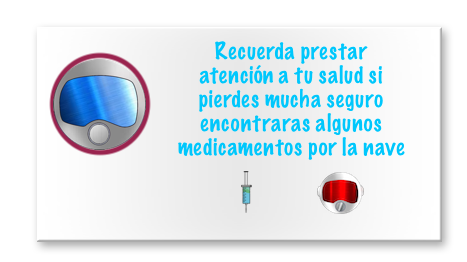
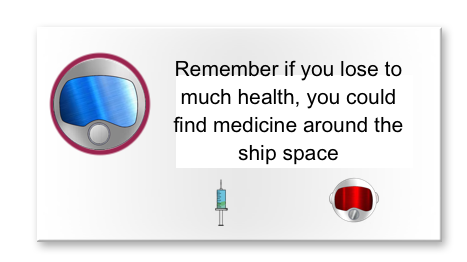
tutorial en ingles y nuevos enemigos

Changed region(s): [[0.3597, 0.1527, 0.8694, 0.6412], [0.6595, 0.6412, 0.8094, 0.855], [0.4497, 0.6412, 0.5396, 0.855]]

diff --git a/core/src/mx/itesm/beyondthedim/PantallaCuartoC.java b/core/src/mx/itesm/beyondthedim/PantallaCuartoC.java
@@ -232,12 +232,12 @@ public class PantallaCuartoC extends Pantalla implements INiveles {
     @Override
     public void crearEnemigos() {
 
-        juego.getEnemy_list().add(new Enemy(ANCHO - 200, ALTO / 2, 400, 1));
-        juego.getEnemy_list().add(new Enemy(ANCHO - 300, ALTO / 2, 200, 1));
-        juego.getEnemy_list().add(new Enemy(ANCHO - 400, ALTO / 2, 800, 1));
-        juego.getEnemy_list().add(new Enemy(ANCHO - 500, ALTO / 2, 100, 1));
-        juego.getEnemy_list().add(new Enemy(ANCHO - 600, ALTO / 2, 500, 1));
-        juego.getEnemy_list().add(new Enemy(ANCHO - 700, ALTO / 2, 200, 1));
+        juego.getEnemy_list().add(new Enemy(ANCHO - 200, ALTO / 4, 400, 2));
+        juego.getEnemy_list().add(new Enemy(ANCHO - 300, ALTO / 6, 200, 2));
+        juego.getEnemy_list().add(new Enemy(ANCHO - 400, ALTO / 8, 800, 1));
+        juego.getEnemy_list().add(new Enemy(ANCHO - 500, ALTO - 200, 100, 2));
+        juego.getEnemy_list().add(new Enemy(ANCHO - 600, ALTO -100, 500, 2));
+        juego.getEnemy_list().add(new Enemy(ANCHO - 700, ALTO / 2, 200, 2));
         juego.getEnemy_list().add(new Enemy(ANCHO - 800, ALTO / 2, 400, 1));
 
     }

diff --git a/core/src/mx/itesm/beyondthedim/PantallaCuartoD.java b/core/src/mx/itesm/beyondthedim/PantallaCuartoD.java
@@ -235,7 +235,12 @@ public class PantallaCuartoD extends Pantalla implements INiveles {
 
     @Override
     public void crearEnemigos() {
-        juego.getEnemy_list().add(new Enemy(ANCHO - 200, ALTO / 2, 100, 1));
+        juego.getEnemy_list().add(new Enemy(ANCHO - 200, ALTO / 2, 100, 6));
+        juego.getEnemy_list().add(new Enemy( 200, ALTO / 4, 300, 7));
+        juego.getEnemy_list().add(new Enemy(ANCHO - 200, ALTO / 2, 400, 8));
+        juego.getEnemy_list().add(new Enemy(ANCHO - 200, ALTO , 400, 19));
+        juego.getEnemy_list().add(new Enemy(ANCHO - 800, ALTO / 4, 700, 1));
+        juego.getEnemy_list().add(new Enemy(ANCHO/2, ALTO / 2, 600, 7));
     }
 
     @Override

diff --git a/core/src/mx/itesm/beyondthedim/Enemy.java b/core/src/mx/itesm/beyondthedim/Enemy.java
@@ -125,7 +125,7 @@ public class Enemy extends Objeto{
         else{
             setEstadoMovimiento(Personaje.EstadoMovimiento.MOV_IZQUIERDA);
         }
-        this.x +=  ((float) ((target.getPositionX() - this.getPositionX()) * 0.02));
+        this.x +=  ((float) ((target.getPositionX() - this.getPositionX()) * 0.05));
         this.y +=  ((float) ((target.getPositionY() - this.getPositionY() + enemyPosAlto) * 0.02));
     }
 

diff --git a/core/src/mx/itesm/beyondthedim/PantallaCuartoEscenarioBoss.java b/core/src/mx/itesm/beyondthedim/PantallaCuartoEscenarioBoss.java
@@ -182,7 +182,9 @@ public class PantallaCuartoEscenarioBoss extends  Pantalla implements INiveles{
         crearEnemigos();
         camara.update();
         boss = new Boss(ANCHO/2,ALTO/2,100);
-        juego.boss = boss;
+        if (boss.getLife() > 0){
+            juego.boss = boss;
+        }
         boss.setEstadoMovimiento(Personaje.EstadoMovimiento.QUIETO);
         Gdx.input.setInputProcessor(escenaJuego);
     }

diff --git a/core/src/mx/itesm/beyondthedim/PantallaTutorial.java b/core/src/mx/itesm/beyondthedim/PantallaTutorial.java
@@ -77,9 +77,8 @@ public class PantallaTutorial  extends Pantalla implements INiveles {
 
     //Icono de vida
     private Texture vidaIcono;
-    //
-    private AssetManager manager;
 
+    private AssetManager manager;
     //Constructores
     public PantallaTutorial(Juego juego) {
         this.juego = juego;
